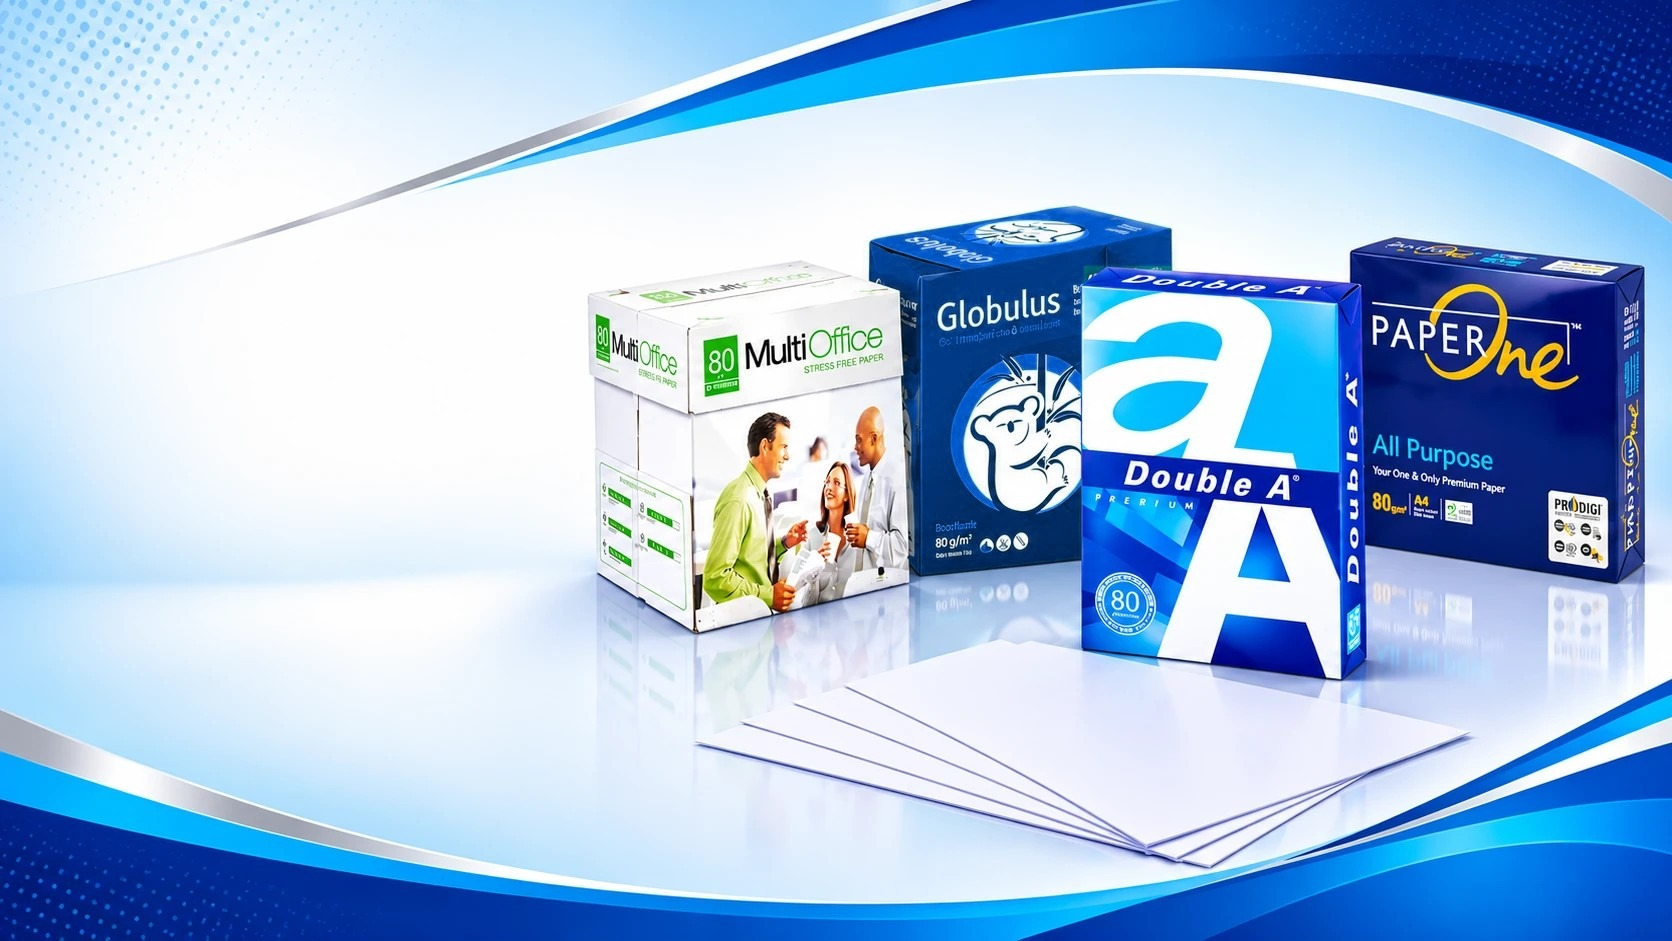
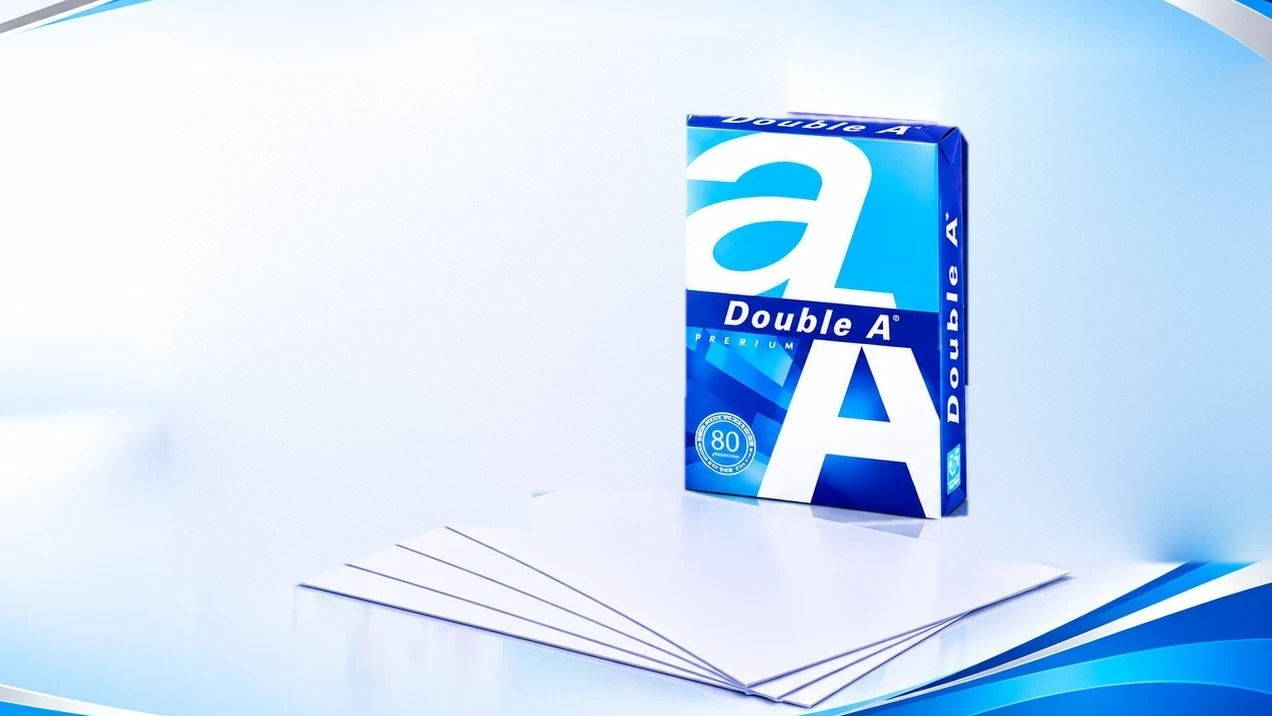
Image du hero recadrée sur la ramette Double A (autres marques retirées)
Claude-Session: https://claude.ai/code/session_01K1xcQ9z1giNZAKMJUCSZS2

diff --git a/components/Hero.tsx b/components/Hero.tsx
@@ -12,7 +12,7 @@ export default function Hero() {
         <div className="hero-image relative order-2 h-[340px] w-full sm:aspect-[16/9] sm:h-auto xl:absolute xl:inset-0 xl:aspect-auto">
           <Image
             src="/images/hero.jpg"
-            alt="Ramette Double A Premium debout devant des feuilles A4 blanches, avec d'autres cartons et ramettes de papier A4 80 g sur une surface blanche brillante"
+            alt="Ramette de papier A4 Double A Premium 80 g debout devant des feuilles A4 blanches, sur une surface blanche brillante"
             fill
             priority
             sizes="100vw"
